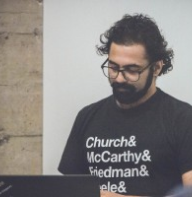
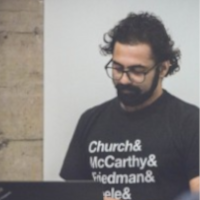
Fix styling on /alumni. Square adi's image

diff --git a/templates/alumni.html b/templates/alumni.html
@@ -1,38 +1,38 @@
 {% extends "base.html" %}
 
 {% block header %}
-    <section class="pt-6 pb-10 px-6 md:py-12 md:px-8 lg:py-20 lg:px-12 bg-gray-100">
-        <div>
-            <h2 class="font-light text-xl leading-snug tracking-tight md:text-4xl lg:text-[3.5rem] lg:leading-snug text-black md:leading-tight">
-                we've shared our journey with some great people.
-            </h2>
-            <p class="pt-6 lg:pt-10 text-pink-500 font-light text-base md:text-xl lg:text-2xl leading-normal md:leading-tight w-full max-w-[48rem] tracking-tight">
-                Our alumni have gone on to work at some of the best known companies of our generation.
-            </p>
-        </div>
-    </section>
+<section class="pt-6 pb-10 px-6 md:py-12 md:px-8 lg:py-20 lg:px-12 bg-gray-100">
+    <div>
+        <h2
+            class="font-light text-xl leading-snug tracking-tight md:text-4xl lg:text-[3.5rem] lg:leading-snug text-black md:leading-tight">
+            we've shared our journey with some great people.
+        </h2>
+        <p
+            class="pt-6 lg:pt-10 text-pink-500 font-light text-base md:text-xl lg:text-2xl leading-normal md:leading-tight w-full max-w-[48rem] tracking-tight">
+            Our alumni have gone on to work at some of the best known companies of our generation.
+        </p>
+    </div>
+</section>
 {% endblock header %}
 {% block content %}
-    <section class="py-10 px-6 md:py-20 md:px-12">
-        <div>
-            <div class="grid grid-flow-row grid-cols-3 md:grid-cols-4 lg:grid-cols-4 xl:grid-cols-4 place-items-center">
-                {% set alumni = load_data(path="content/data/alumni.toml", format="toml") %}
-                {% for person in alumni.people %}
-                    <div class="mr-2 md:mr-2 lg:mr-25 xl:mr-25 mt-9 md:mt-12 lg:mt-16 xl:mt-20 justify-center">
-                        <a href="{{ person.twitter }}" target="_blank">
-                            <figure class="w-20 md:w-28 lg:w-36 xl:w-48">
-                                <img src="/{{ person.picture }}" alt="{{ person.name }}" class="w-full rounded-sm">
-                            </figure>
+<section class="py-10 px-6 md:py-20 md:px-12">
+    <div class="grid grid-flow-row grid-cols-2 md:grid-cols-4 gap-4 justify-items-stretch">
+        {% set alumni = load_data(path="content/data/alumni.toml", format="toml") %}
+        {% for person in alumni.people %}
+        <div class="m-2 md:mt-2 md:m-12">
+            <a href="{{ person.twitter }}" target="_blank">
+                <figure class="">
+                    <img src="/{{ person.picture }}" alt="{{ person.name }}" class="w-full rounded-sm">
+                </figure>
 
-                            <div class="pl-6 sm:pl-0 flex flex-wrap sm:block">
-                                <h3 class="sm:py-8 md:pb-8 lg:pb-10 md:text-1xl lg:text-2xl text-pink-500 font-light">
-                                    {{ person.name }}
-                                </h3>
-                            </div>
-                        </a>
-                    </div>
-                {% endfor %}
-            </div>
+                <div class="flex flex-wrap sm:block">
+                    <h3 class="text-lg md:text-2xl text-pink-500 font-light md:mt-2">
+                        {{ person.name }}
+                    </h3>
+                </div>
+            </a>
         </div>
-    </section>
+        {% endfor %}
+    </div>
+</section>
 {% endblock content %}
